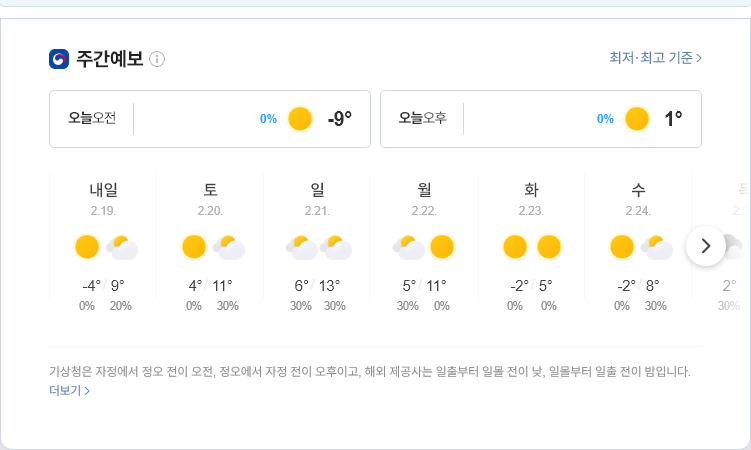
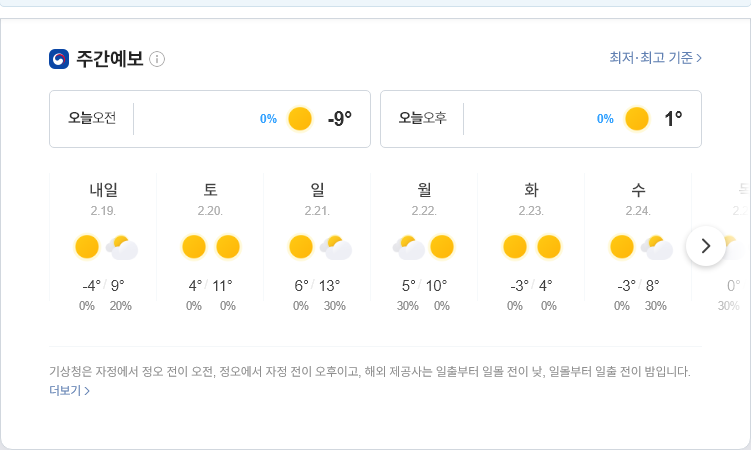
update result

diff --git a/README.md b/README.md
@@ -1,5 +1,5 @@
-##  2021-02-18 05:54:53   목요일 
-##### 날씨   -   어제와 같은 기온맑음  
+##  2021-02-18 09:16:49   목요일 
+##### 날씨   -   어제보다 1° 높아요구름많음  
 <center><img src="../img/naver_weather_week.png"></center>
 ----
 ----
@@ -13,9 +13,9 @@
 ##### 세계
 <table border="1" bordercolor="blue" align = "center" >
 <tr align = "right" > <td>Item</td><td>Point</td><td>Diff</td><td>Rate</td><td>Buy</td><td>Sell</td><td>...</td>  </tr>
-<tr align = "right" > <td>DOW</td><td>31,627.33</td><td>104.58</td><td><font size="3" color="red" >0.33%</font></td><td><font size="3" color="black">0</font></td><td><font size="3" color="black">0</font></td><td>0</td>  </tr>
-<tr align = "right" > <td>NASDAQ</td><td>13,965.95</td><td>-81.55</td><td><font size="3" color="blue" >-0.58%</font></td><td><font size="3" color="black">0</font></td><td><font size="3" color="black">0</font></td><td>0</td>  </tr>
-<tr align = "right" > <td>S&P</td><td>3,930.49</td><td>-2.1</td><td><font size="3" color="blue" >-0.05%</font></td><td><font size="3" color="black">0</font></td><td><font size="3" color="black">0</font></td><td>0</td>  </tr>
+<tr align = "right" > <td>DOW</td><td>31,613.02</td><td>90.27</td><td><font size="3" color="red" >0.29%</font></td><td><font size="3" color="black">0</font></td><td><font size="3" color="black">0</font></td><td>0</td>  </tr>
+<tr align = "right" > <td>NASDAQ</td><td>13,965.5</td><td>-82.0</td><td><font size="3" color="blue" >-0.58%</font></td><td><font size="3" color="black">0</font></td><td><font size="3" color="black">0</font></td><td>0</td>  </tr>
+<tr align = "right" > <td>S&P</td><td>3,931.33</td><td>-1.26</td><td><font size="3" color="blue" >-0.03%</font></td><td><font size="3" color="black">0</font></td><td><font size="3" color="black">0</font></td><td>0</td>  </tr>
 <tr align = "right" > <td>SHANHAI</td><td>3,655.09</td><td>51.6</td><td><font size="3" color="red" >1.43%</font></td><td><font size="3" color="black">0</font></td><td><font size="3" color="black">0</font></td><td>0</td>  </tr>
 <tr align = "right" > <td>INDIA</td><td>51,703.83</td><td>-400.34</td><td><font size="3" color="blue" >-0.77%</font></td><td><font size="3" color="black">0</font></td><td><font size="3" color="black">0</font></td><td>0</td>  </tr>
 </table>
@@ -23,33 +23,33 @@
 ##### 시장
 <table border="1" bordercolor="blue" align = "center" >
 <tr align = "right" > <td>Item</td><td>Price</td><td>Diff</td><td>Rate</td><td>Buy</td><td>Sell</td><td>...</td>  </tr>
-<tr align = "right" > <td>USD</td><td>1,107.0</td><td>5.5</td><td><font size="3" color="red">0.5%</font></td><td><font size="3" color="orangered">1,110</font></td><td><font size="3" color="black">0</font></td><td>0</td>  </tr>
-<tr align = "right" > <td>WTI</td><td>60.05</td><td>0.58</td><td><font size="3" color="red">0.97%</font></td><td><font size="3" color="black">29.0</font></td><td><font size="3" color="black">0</font></td><td>0</td>  </tr>
-<tr align = "right" > <td>GOLD</td><td>1,797.0</td><td>-24.4</td><td><font size="3" color="blue">-1.33%</font></td><td><font size="3" color="black">0</font></td><td><font size="3" color="black">0</font></td><td>0</td>  </tr>
+<tr align = "right" > <td>USD</td><td>1,105.0</td><td>-1.7</td><td><font size="3" color="blue">-0.15%</font></td><td><font size="3" color="orangered">1,110</font></td><td><font size="3" color="black">0</font></td><td>0</td>  </tr>
+<tr align = "right" > <td>WTI</td><td>61.14</td><td>1.09</td><td><font size="3" color="red">1.81%</font></td><td><font size="3" color="black">29.0</font></td><td><font size="3" color="black">0</font></td><td>0</td>  </tr>
+<tr align = "right" > <td>GOLD</td><td>1,771.0</td><td>-26.1</td><td><font size="3" color="blue">-1.45%</font></td><td><font size="3" color="black">0</font></td><td><font size="3" color="black">0</font></td><td>0</td>  </tr>
 </table>
 ----
 ##### 주가
 <table border="1" bordercolor="blue" align = "center" >
 <tr align = "right" > <td>Item</td><td>Price</td><td>Diff</td><td>Rate</td><td>Purchased</td><td>Sell</td><td>Buy</td>  </tr>
-<tr align = "right" > <td>한국 전력</td><td>23,800</td><td>250</td><td><font size="3" color="red">1.06%</font></td><td>25,720</td><td><font size="3" color="black">27,700</font></td><td><font size="3" color="black">20,700</font></td>  </tr>
-<tr align = "right" > <td>삼성엔지니어.</td><td>13,100</td><td>-200</td><td><font size="3" color="blue">-1.5%</font></td><td>18,935</td><td><font size="3" color="black">20,000</font></td><td><font size="3" color="black">8,000</font></td>  </tr>
-<tr align = "right" > <td>CJ CGV</td><td>26,750</td><td>-300</td><td><font size="3" color="blue">-1.11%</font></td><td>34,895</td><td><font size="3" color="black">36,000</font></td><td><font size="3" color="black">0</font></td>  </tr>
-<tr align = "right" > <td>아모레퍼시픽</td><td>227,000</td><td>-6,000</td><td><font size="3" color="blue">-2.58%</font></td><td>235,350</td><td><font size="3" color="black">240,000</font></td><td><font size="3" color="black">130,000</font></td>  </tr>
-<tr align = "right" > <td>한화</td><td>32,900</td><td>-900</td><td><font size="3" color="blue">-2.66%</font></td><td>25,550</td><td><font size="3" color="black">26,250</font></td><td><font size="3" color="black">26,250</font></td>  </tr>
-<tr align = "right" > <td>NAVER</td><td>392,000</td><td>-2,000</td><td><font size="3" color="blue">-0.51%</font></td><td>147,200</td><td><font size="3" color="black">386,000</font></td><td><font size="3" color="black">286,000</font></td>  </tr>
-<tr align = "right" > <td>LG 화학우</td><td>455,000</td><td>-14,000</td><td><font size="3" color="blue">-2.99%</font></td><td>202,490</td><td><font size="3" color="black">384,000</font></td><td><font size="3" color="black">384,000</font></td>  </tr>
-<tr align = "right" > <td>스튜디오드래.</td><td>100,700</td><td>300</td><td><font size="3" color="red">0.3%</font></td><td>81,243</td><td><font size="3" color="black">85,200</font></td><td><font size="3" color="black">85,200</font></td>  </tr>
-<tr align = "right" > <td>QV미국IT</td><td>26,920</td><td>-140</td><td><font size="3" color="blue">-0.52%</font></td><td>0</td><td><font size="3" color="black">30,000</font></td><td><font size="3" color="black">20,000</font></td>  </tr>
-<tr align = "right" > <td>삼성 전자우</td><td>74,800</td><td>-1,400</td><td><font size="3" color="blue">-1.84%</font></td><td>48,250</td><td><font size="3" color="black">56,000</font></td><td><font size="3" color="black">45,000</font></td>  </tr>
-<tr align = "right" > <td>LS</td><td>73,000</td><td>1,000</td><td><font size="3" color="red">1.39%</font></td><td>71,400</td><td><font size="3" color="black">82,000</font></td><td><font size="3" color="black">60,000</font></td>  </tr>
-<tr align = "right" > <td>한화에어로스.</td><td>41,600</td><td>-1,300</td><td><font size="3" color="blue">-3.03%</font></td><td>25,700</td><td><font size="3" color="black">30,000</font></td><td><font size="3" color="black">24,000</font></td>  </tr>
-<tr align = "right" > <td>카카오</td><td>509,000</td><td>-5,000</td><td><font size="3" color="blue">-0.97%</font></td><td>405,500</td><td><font size="3" color="black">440,000</font></td><td><font size="3" color="black">400,000</font></td>  </tr>
-<tr align = "right" > <td>호텔 신라</td><td>82,000</td><td>0</td><td><font size="3" color="black">0.0%</font></td><td>72,800</td><td><font size="3" color="black">100,000</font></td><td><font size="3" color="black">70,000</font></td>  </tr>
-<tr align = "right" > <td>S-Oil</td><td>90,000</td><td>1,800</td><td><font size="3" color="red">2.04%</font></td><td>62,842</td><td><font size="3" color="black">100,000</font></td><td><font size="3" color="black">50,000</font></td>  </tr>
-<tr align = "right" > <td>LG전자</td><td>176,000</td><td>3,500</td><td><font size="3" color="red">2.03%</font></td><td>82,022</td><td><font size="3" color="black">100,000</font></td><td><font size="3" color="black">60,000</font></td>  </tr>
-<tr align = "right" > <td>지역난방공사</td><td>39,000</td><td>200</td><td><font size="3" color="red">0.52%</font></td><td>43,590</td><td><font size="3" color="black">60,000</font></td><td><font size="3" color="black">30,000</font></td>  </tr>
-<tr align = "right" > <td>KOEDX은행</td><td>6,445</td><td>45</td><td><font size="3" color="red">0.7%</font></td><td>5,178</td><td><font size="3" color="black">6,225</font></td><td><font size="3" color="black">6,225</font></td>  </tr>
-<tr align = "right" > <td>글로벌럭셔리</td><td>16,080</td><td>115</td><td><font size="3" color="red">0.72%</font></td><td>15,260</td><td><font size="3" color="black">20,000</font></td><td><font size="3" color="black">10,000</font></td>  </tr>
-<tr align = "right" > <td>한국금융지주</td><td>89,700</td><td>-700</td><td><font size="3" color="blue">-0.77%</font></td><td>0</td><td><font size="3" color="black">82,000</font></td><td><font size="3" color="black">60,000</font></td>  </tr>
+<tr align = "right" > <td>한국 전력</td><td>23,850</td><td>50</td><td><font size="3" color="red">0.21%</font></td><td>25,720</td><td><font size="3" color="black">27,700</font></td><td><font size="3" color="black">20,700</font></td>  </tr>
+<tr align = "right" > <td>삼성엔지니어.</td><td>13,150</td><td>50</td><td><font size="3" color="red">0.38%</font></td><td>18,935</td><td><font size="3" color="black">20,000</font></td><td><font size="3" color="black">8,000</font></td>  </tr>
+<tr align = "right" > <td>CJ CGV</td><td>26,750</td><td>0</td><td><font size="3" color="black">0.0%</font></td><td>34,895</td><td><font size="3" color="black">36,000</font></td><td><font size="3" color="black">0</font></td>  </tr>
+<tr align = "right" > <td>아모레퍼시픽</td><td>229,000</td><td>2,000</td><td><font size="3" color="red">0.88%</font></td><td>235,350</td><td><font size="3" color="black">240,000</font></td><td><font size="3" color="black">130,000</font></td>  </tr>
+<tr align = "right" > <td>한화</td><td>32,900</td><td>0</td><td><font size="3" color="black">0.0%</font></td><td>25,550</td><td><font size="3" color="black">26,250</font></td><td><font size="3" color="black">26,250</font></td>  </tr>
+<tr align = "right" > <td>NAVER</td><td>396,000</td><td>4,000</td><td><font size="3" color="red">1.02%</font></td><td>147,200</td><td><font size="3" color="black">386,000</font></td><td><font size="3" color="black">286,000</font></td>  </tr>
+<tr align = "right" > <td>LG 화학우</td><td>448,500</td><td>-6,500</td><td><font size="3" color="blue">-1.43%</font></td><td>202,490</td><td><font size="3" color="black">384,000</font></td><td><font size="3" color="black">384,000</font></td>  </tr>
+<tr align = "right" > <td>스튜디오드래.</td><td>99,900</td><td>-800</td><td><font size="3" color="blue">-0.79%</font></td><td>81,243</td><td><font size="3" color="black">85,200</font></td><td><font size="3" color="black">85,200</font></td>  </tr>
+<tr align = "right" > <td>QV미국IT</td><td>26,920</td><td>0</td><td><font size="3" color="black">0.0%</font></td><td>0</td><td><font size="3" color="black">30,000</font></td><td><font size="3" color="black">20,000</font></td>  </tr>
+<tr align = "right" > <td>삼성 전자우</td><td>74,700</td><td>-100</td><td><font size="3" color="blue">-0.13%</font></td><td>48,250</td><td><font size="3" color="black">56,000</font></td><td><font size="3" color="black">45,000</font></td>  </tr>
+<tr align = "right" > <td>LS</td><td>72,100</td><td>-900</td><td><font size="3" color="blue">-1.23%</font></td><td>71,400</td><td><font size="3" color="black">82,000</font></td><td><font size="3" color="black">60,000</font></td>  </tr>
+<tr align = "right" > <td>한화에어로스.</td><td>42,600</td><td>1,000</td><td><font size="3" color="red">2.4%</font></td><td>25,700</td><td><font size="3" color="black">30,000</font></td><td><font size="3" color="black">24,000</font></td>  </tr>
+<tr align = "right" > <td>카카오</td><td>507,000</td><td>-2,000</td><td><font size="3" color="blue">-0.39%</font></td><td>405,500</td><td><font size="3" color="black">440,000</font></td><td><font size="3" color="black">400,000</font></td>  </tr>
+<tr align = "right" > <td>호텔 신라</td><td>82,100</td><td>100</td><td><font size="3" color="red">0.12%</font></td><td>72,800</td><td><font size="3" color="black">100,000</font></td><td><font size="3" color="black">70,000</font></td>  </tr>
+<tr align = "right" > <td>S-Oil</td><td>88,400</td><td>-1,600</td><td><font size="3" color="blue">-1.78%</font></td><td>62,842</td><td><font size="3" color="black">100,000</font></td><td><font size="3" color="black">50,000</font></td>  </tr>
+<tr align = "right" > <td>LG전자</td><td>174,000</td><td>-2,000</td><td><font size="3" color="blue">-1.14%</font></td><td>82,022</td><td><font size="3" color="black">100,000</font></td><td><font size="3" color="black">60,000</font></td>  </tr>
+<tr align = "right" > <td>지역난방공사</td><td>38,950</td><td>-50</td><td><font size="3" color="blue">-0.13%</font></td><td>43,590</td><td><font size="3" color="black">60,000</font></td><td><font size="3" color="black">30,000</font></td>  </tr>
+<tr align = "right" > <td>KOEDX은행</td><td>6,410</td><td>-35</td><td><font size="3" color="blue">-0.54%</font></td><td>5,178</td><td><font size="3" color="black">6,225</font></td><td><font size="3" color="black">6,225</font></td>  </tr>
+<tr align = "right" > <td>글로벌럭셔리</td><td>15,925</td><td>-155</td><td><font size="3" color="blue">-0.96%</font></td><td>15,260</td><td><font size="3" color="black">20,000</font></td><td><font size="3" color="black">10,000</font></td>  </tr>
+<tr align = "right" > <td>한국금융지주</td><td>89,800</td><td>100</td><td><font size="3" color="red">0.11%</font></td><td>0</td><td><font size="3" color="black">82,000</font></td><td><font size="3" color="black">60,000</font></td>  </tr>
 </table>
 ----
